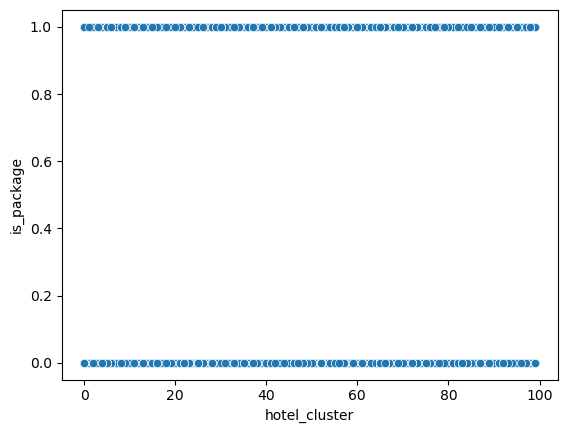
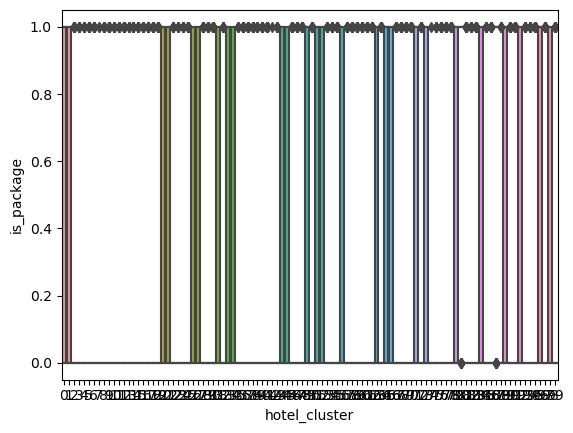
actual weird looking boxplot

Changed region(s): [[0.03, 0.03, 0.9894, 0.9908]]

diff --git a/code/data.py b/code/data.py
@@ -58,7 +58,7 @@ train.info()
 
 plt.figure()
 
-sns.scatterplot(x="hotel_cluster", y="is_package", data=train)
+sns.boxplot(x="hotel_cluster", y="is_package", data=train)
 du.save_fig('boxplot')
 
 
